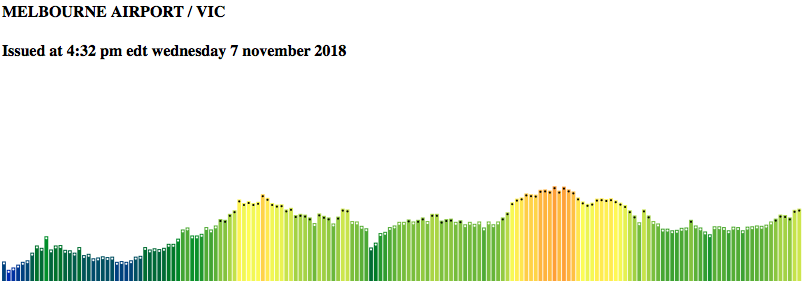
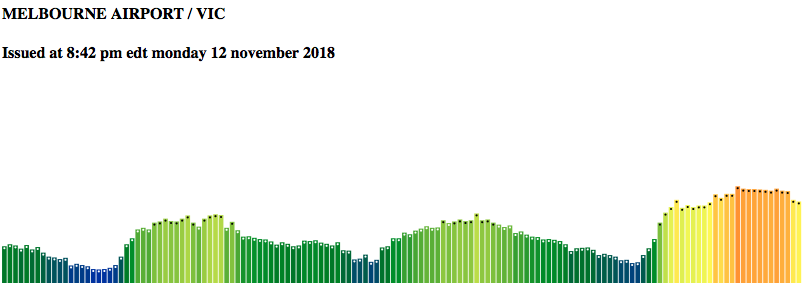
2018NOV12 readme update

Changed region(s): [[0.0, 0.6434, 1.0, 1.0], [0.0, 0.1399, 0.4348, 0.2238], [0.0, 0.0, 0.2795, 0.0839]]

diff --git a/README.md b/README.md
@@ -10,6 +10,13 @@ TODO
         work out axes
         how to show data values 
 
+2018NOV12
+* found the data source was coming in backwards, do the temps got colder
+  during the day. Fixed this in <www/weather.js> by reversing data.
+
+* think about this problem as data has some order. in this case it was in
+  reverse date order 
+
 2018NOV07
 * usage:
 
